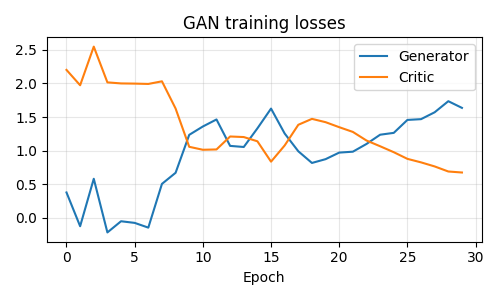
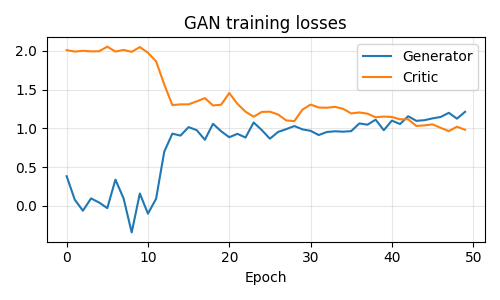
Training GAN complete

diff --git a/GAN.py b/GAN.py
@@ -1,4 +1,3 @@
-from asyncio import sleep
 import glob
 import math
 from PIL import Image
@@ -12,6 +11,7 @@ from tqdm.auto import tqdm
 from torch.utils.data import DataLoader, Dataset
 import torch.nn.functional as F
 from IPPy import operators, utilities
+from torch.cuda.amp import autocast, GradScaler
 
 device = utilities.get_device()
 print(f'🚨 Device: {device}')
@@ -149,21 +149,26 @@ def update_ema(ema_model, model, decay=0.999):
         ema_buffer.copy_(buffer)
 
 torch.manual_seed(0)
+
 latent_dim = 128
 G = StableGenerator(latent_dim=latent_dim).to(device)
 G_ema = StableGenerator(latent_dim=latent_dim).to(device)
 G_ema.load_state_dict(G.state_dict())
 C = StableCritic().to(device)
 
-opt_G = torch.optim.Adam(G.parameters(), lr=4e-4, betas=(0.0, 0.99))
-opt_C = torch.optim.Adam(C.parameters(), lr=3e-4, betas=(0.0, 0.99))
-plotGraph = 2 # Every 5 epochs there is a plot
-G_to_C = 1 # For 2 Generator train step there is a critic train step 
+opt_G = torch.optim.Adam(G.parameters(), lr=3e-4, betas=(0.0, 0.99))
+opt_C = torch.optim.Adam(C.parameters(), lr=5e-5, betas=(0.0, 0.99))
+plotGraph = 2  # Every 5 epochs there is a plot
+G_to_C = 1     # For 2 Generator train step there is a critic train step
 num_epochs = 50
 ema_decay = 0.999
-r1_weight = 5.0
+r1_weight = 5
 r1_every = 16
 fixed_z = torch.randn(8, latent_dim, device=device)
+
+# --- AMP: uno scaler per ciascun optimizer, dato che i due step sono indipendenti ---
+scaler_G = GradScaler()
+scaler_C = GradScaler()
 
 g_path = weights_dir / 'GAN_G.pth'
 g_ema_path = weights_dir / 'GAN_G_EMA.pth'
@@ -171,7 +176,7 @@ c_path = weights_dir / 'GAN_C.pth'
 g_history, c_history = [], []
 
 #------------------------------------------------------------------------------------------
-if(False):
+if(True):
     reloaded_G = StableGenerator(latent_dim=latent_dim)
     reloaded_G.load_state_dict(torch.load(g_ema_path, map_location='cpu', weights_only=True))
     reloaded_G = reloaded_G.to(device)
@@ -225,11 +230,11 @@ if(False):
     y_delta =  y_clean + noise * torch.randn_like(y_clean)
 
     x_gan_dps = gan_dps_reconstruct(
-        G, 
+        reloaded_G, 
         y_delta, 
         K = k,
         latent_dim=128,
-        sigma_y=noise, num_steps=1000, eta=1e-2, device=device
+        sigma_y=noise, num_steps=10000, eta=1e-2, device=device
     )
 
     def denorm(x):
@@ -267,15 +272,19 @@ for epoch in range(num_epochs):
     progress_bar = tqdm(train_loader, desc=f'GAN epoch {epoch + 1}/{num_epochs}', leave=True)
 
     for step, x_real in enumerate(progress_bar, start=1):
-        x_real = x_real.to(device)
+        x_real = x_real.to(device, non_blocking=True)
         batch_size = x_real.shape[0]
 
-        z = torch.randn(batch_size, latent_dim, device=device)
-        x_fake = G(z)
-        c_real = C(x_real)
-        c_fake = C(x_fake.detach())
-        c_loss = F.relu(1.0 - c_real).mean() + F.relu(1.0 + c_fake).mean()
+        # ============== CRITIC STEP ==============
+        with autocast():
+            z = torch.randn(batch_size, latent_dim, device=device)
+            x_fake = G(z)
+            c_real = C(x_real)
+            c_fake = C(x_fake.detach())
+            c_loss = F.relu(1.0 - c_real).mean() + F.relu(1.0 + c_fake).mean()
 
+        # R1 penalty: tenuta fuori da autocast, in fp32 puro.
+        # create_graph=True (doppio backward) è numericamente fragile in fp16.
         if step % r1_every == 0:
             x_real_reg = x_real.detach().requires_grad_(True)
             c_real_reg = C(x_real_reg)
@@ -288,17 +297,22 @@ for epoch in range(num_epochs):
             c_loss = c_loss + 0.5 * r1_weight * r1_penalty
 
         if step % G_to_C == 0:
-            opt_C.zero_grad()
-            c_loss.backward()
-            opt_C.step()
+            opt_C.zero_grad(set_to_none=True)
+            scaler_C.scale(c_loss).backward()
+            scaler_C.step(opt_C)
+            scaler_C.update()
 
-        z = torch.randn(batch_size, latent_dim, device=device)
-        x_fake = G(z)
-        g_loss = -C(x_fake).mean()
+        # ============== GENERATOR STEP ==============
+        with autocast():
+            z = torch.randn(batch_size, latent_dim, device=device)
+            x_fake = G(z)
+            g_loss = -C(x_fake).mean()
 
-        opt_G.zero_grad()
-        g_loss.backward()
-        opt_G.step()
+        opt_G.zero_grad(set_to_none=True)
+        scaler_G.scale(g_loss).backward()
+        scaler_G.step(opt_G)
+        scaler_G.update()
+
         update_ema(G_ema, G, decay=ema_decay)
 
         g_epoch += g_loss.item()